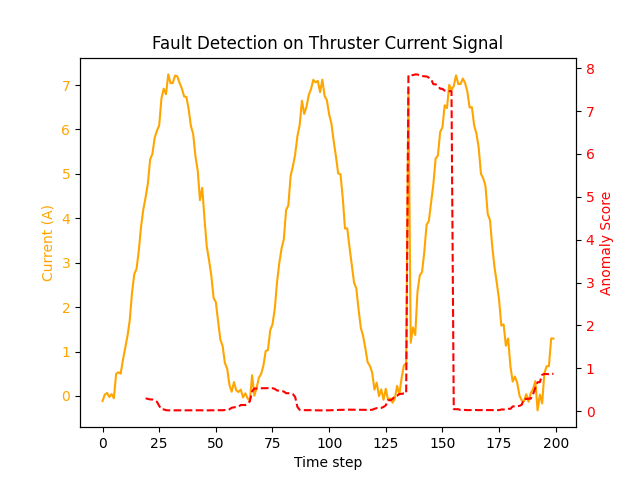
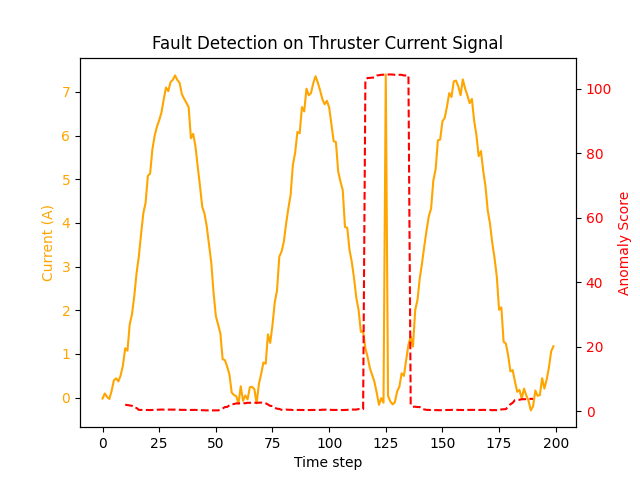
Fixed mistake in detect_fault (now set seed rng)

diff --git a/src/detect_fault.py b/src/detect_fault.py
@@ -8,7 +8,7 @@ import matplotlib.pyplot as plt
 Window = 20
 
 model = keras.models.load_model("models/t200_autoencoder.keras")
-rng = np.random.default_rng()
+rng = np.random.default_rng(0)
 
 #Make new signal to test model on 
 pwm = generate_pwm(200, rng)
@@ -43,7 +43,8 @@ ax1.set_ylabel("Current (A)", color="orange")
 ax1.tick_params(axis='y', labelcolor="orange")
 
 ax2 = ax1.twinx()
-ax2.plot(range(Window - 1, len(scores) + Window - 1), scores, label="Anomaly Score", color="red", linestyle="--") 
+offset = Window // 2
+ax2.plot(range(offset, offset + len(scores)), scores, color="red", linestyle="--")
 ax2.set_ylabel("Anomaly Score", color="red")
 ax2.tick_params(axis='y', labelcolor="red")
 
